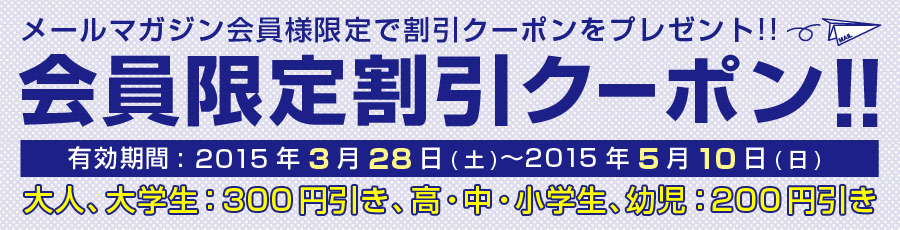
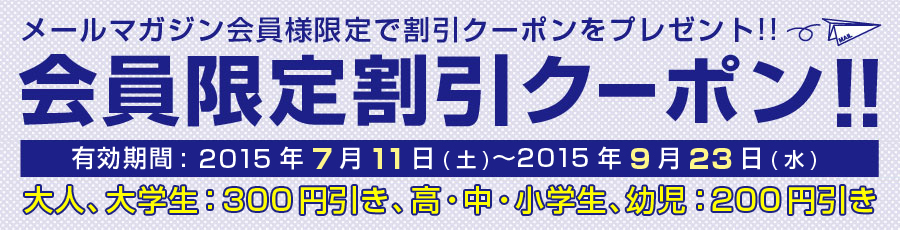
メルマガクーポン

Changed region(s): [[0.0622, 0.6391, 0.9333, 0.7609]]

diff --git a/magazine/magazine.html b/magazine/magazine.html
@@ -74,7 +74,7 @@ onMouseOut="ImgBack('globalNavi2')" id="globalNavi2"/> </a> </li>
 	<li style="list-style-type:none;"><a href="https://mm.cinemasunshine.co.jp/form_if.cgi?type=3&id=sunshine"><img src="images/tokusetsu_btn_registration.gif" onmouseout="ImgBack('tokubtn1');" onmouseover="ImgChange('tokubtn1', 'images/tokusetsu_btn_registration_om.gif');" id="tokubtn1" /></a></li>
 </ul>
 <div style="clear:both;"></div>
-<!--<div style="width:940px; margin:30px auto 0 auto; text-align:center;"><img src="bnr/special_bnr_mail_coupon.jpg" /></div>-->
+<div style="width:940px; margin:30px auto 0 auto; text-align:center;"><img src="bnr/special_bnr_mail_coupon.jpg" /></div>
 <!--<div style="width:940px; margin:20px auto 0 auto; text-align:center;"><a href="http://campaign.cinemasunshine.co.jp/prometheus"><img src="bnr/special_bnr_17.jpg" /></a></div>-->
 
 
